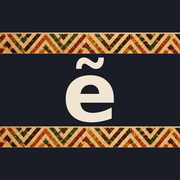
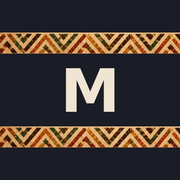
Add files via upload

Changed region(s): [[0.3611, 0.3056, 0.6389, 0.6944]]

diff --git a/index.html b/index.html
@@ -6,7 +6,7 @@
 <link rel="icon" href="favicon.png">
 <link rel="apple-touch-icon" href="apple-touch-icon.png">
 <meta name="description" content="Consulta de palavras Tupi-Guarani">
-<title>Nhe’ẽ porã</title>
+<title>Movimento Ancestral</title>
 <link href="https://fonts.googleapis.com/css2?family=Bungee&family=Newsreader:opsz,wght@6..72,400;6..72,600&family=Instrument+Sans:wght@400;500;600&display=swap" rel="stylesheet">
 <style>
 :root{--bg:#E9DAC5;--card:#F6ECDC;--ink:#1A1C26;--mute:#6B5645;--line:#CDB89B;--acc:#C8401F;--leaf:#8C5330;--chip:#DCC6A8;--jen:#1A1C26;--areia:#F0E4D2;color-scheme:light;box-sizing:border-box;padding-top:env(safe-area-inset-top,0px);padding-bottom:env(safe-area-inset-bottom,0px)}
@@ -59,8 +59,8 @@ textarea{width:100%;box-sizing:border-box;min-height:80px;font:inherit;padding:1
 .h2{font:600 16px/1.3 "Instrument Sans",sans-serif;margin:22px 0 6px}
 .pes{display:flex;justify-content:space-between;align-items:center;gap:12px;padding:10px 2px;border-bottom:1px solid var(--line)}
 .papel{display:inline-block;background:var(--jen);color:var(--areia);border-radius:999px;padding:4px 12px;font-size:13px}
-.logo{display:block;width:100%;aspect-ratio:900/304;margin:0 0 14px;background:center/contain no-repeat}
-.logo-c{background-image:url(logo_claro.png)}.logo-e{display:none;background-image:url(logo_escuro.png)}
+.logo{display:block;width:100%;aspect-ratio:900/344;margin:0 0 14px;background:center/contain no-repeat}
+.logo-c{background-image:url(logo_ma_claro.png)}.logo-e{display:none;background-image:url(logo_ma_escuro.png)}
 @media(prefers-color-scheme:dark){:root:not([data-theme="light"]) .logo-c{display:none}:root:not([data-theme="light"]) .logo-e{display:block}}
 :root[data-theme="dark"] .logo-c{display:none}:root[data-theme="dark"] .logo-e{display:block}
 
@@ -85,6 +85,7 @@ a.btn{color:inherit;text-decoration:none;display:inline-block}
 .sobre p{margin:0 0 14px;line-height:1.6}
 .dedica{font:600 17px/1.4 "Instrument Sans",sans-serif;border-left:6px solid var(--acc);padding:6px 0 6px 14px;margin-top:22px!important}
 .homenagem{display:block;width:100%;height:auto;border-radius:14px;margin:4px 0 8px;border:1px solid var(--line)}
+.hero{display:block;width:100%;height:auto;aspect-ratio:1105/625;object-fit:cover;border-radius:14px;margin:0 0 16px}
 .btn.danger{background:transparent;border-color:var(--acc);color:var(--acc)}
 .note.perigo{border:2px solid var(--acc)}
 .adminbox{border-style:dashed}
@@ -382,7 +383,7 @@ function dadosDoForm(f){
     status:"pendente", audios:base.audios||[]
   });
 }
-function logo(){return '<div class="logo logo-c" role="img" aria-label="Nhe’ẽ porã"></div><div class="logo logo-e" role="img" aria-label="Nhe’ẽ porã"></div>'}
+function logo(){return '<div class="logo logo-c" role="img" aria-label="Movimento Ancestral"></div><div class="logo logo-e" role="img" aria-label="Movimento Ancestral"></div>'}
 
 function render(){
   const m=$("m"), nav=$("nav");
@@ -399,7 +400,8 @@ function render(){
     return;
   }
   const f={load:vLoad,config:vConfig,auth:vAuth,enroll:vEnroll,challenge:vChallenge,novasenha:vNova,pendente:vPend,erro:vErro}[view]||vLoad;
-  m.innerHTML=(view==="pendente"?"":logo())+f();
+  const hero=(view==="auth"||view==="challenge"||view==="pendente")?'<img class="hero" src="entrada.jpg" alt="Ilustração: montanhas, rio e animais da floresta, da noite ao amanhecer">':"";
+  m.innerHTML=hero+(view==="pendente"?"":logo())+f();
 }
 
 // ---------- fluxo de acesso ----------
@@ -440,7 +442,7 @@ async function iniciarEnroll(){
   try{
     const l=await sb.auth.mfa.listFactors();
     for(const f of ((l.data&&l.data.all)||[]))if(f.status!=="verified")await sb.auth.mfa.unenroll({factorId:f.id});
-    const r=await sb.auth.mfa.enroll({factorType:"totp",friendlyName:"Nhe-e-pora "+Date.now()});
+    const r=await sb.auth.mfa.enroll({factorType:"totp",friendlyName:"Movimento Ancestral "+Date.now()});
     if(r.error)throw r.error;
     enr={id:r.data.id,qr:r.data.totp.qr_code,secret:r.data.totp.secret};
     render();

diff --git a/sw.js b/sw.js
@@ -1,8 +1,8 @@
 // Guarda o site no aparelho para abrir sem internet. NUNCA guarda respostas do banco (Supabase).
 // Páginas, scripts e configuração: tenta a internet primeiro (sempre a versão mais nova) e usa a cópia só se estiver sem rede.
-// Ao publicar uma versão nova, troque o número abaixo (v3 -> v4).
-const V = "nhee-v3";
-const CORE = ["./", "index.html", "config.js", "manifest.json", "logo_claro.png", "logo_escuro.png", "faixa.png",
+// Ao publicar uma versão nova, troque o número abaixo (v4 -> v5).
+const V = "nhee-v4";
+const CORE = ["./", "index.html", "config.js", "manifest.json", "logo_ma_claro.png", "logo_ma_escuro.png", "entrada.jpg", "faixa.png",
   "icon-192.png", "icon-512.png"];
 const PERMITIDOS = ["cdn.jsdelivr.net", "fonts.googleapis.com", "fonts.gstatic.com"];
 self.addEventListener("install", e => {

diff --git a/config.js b/config.js
@@ -4,7 +4,7 @@ window.NHEE_CONFIG = {
   // Endereço do seu projeto no Supabase (já preenchido):
   supabaseUrl: "https://paizsbesvosvoqrmrldt.supabase.co",
   // Cole aqui a chave "anon" (começa com eyJ...). NUNCA use a chave service_role.
-  supabaseKey: "eyJhbGciOiJIUzI1NiIsInR5cCI6IkpXVCJ9.eyJpc3MiOiJzdXBhYmFzZSIsInJlZiI6InBhaXpzYmVzdm9zdm9xcm1ybGR0Iiwicm9sZSI6ImFub24iLCJpYXQiOjE3OTQzMTE3NzgsImV4cCI6MjEwOTg4Nzc3OH0.5Op5gRuE9DWWocn-GC1nzbOnKRf0cdDRMkusiJH9McI",
+  supabaseKey: "",
   // E-mail que recebe sugestões de correção (aparece publicamente; deixe vazio para esconder o botão):
   email: "",
   // Créditos mostrados na aba Conta:
